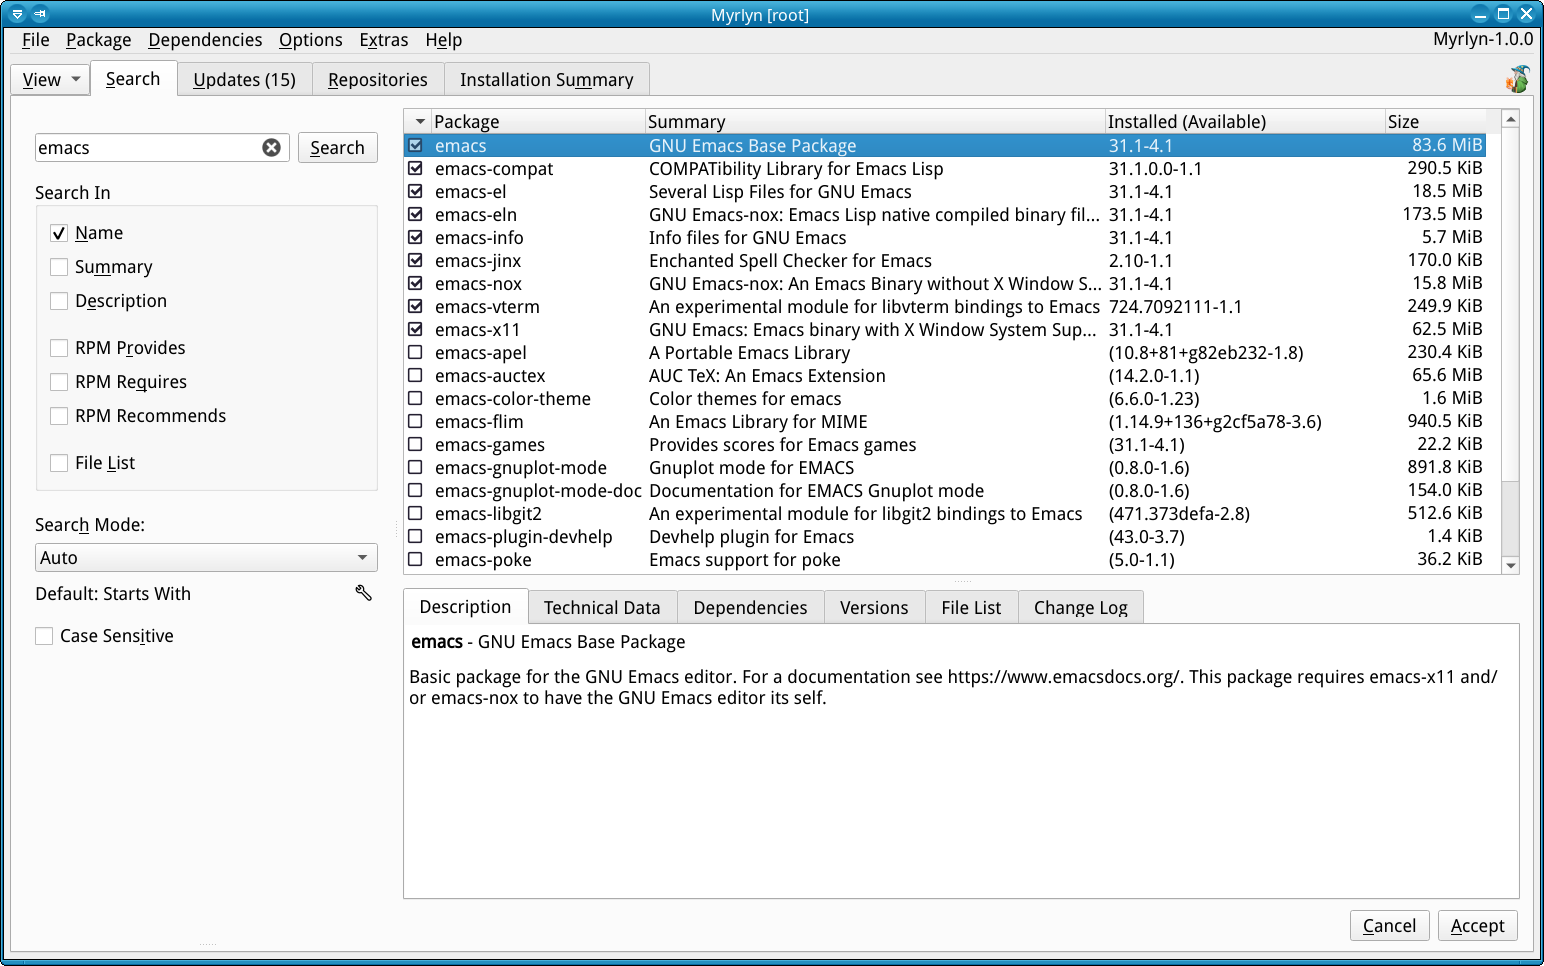
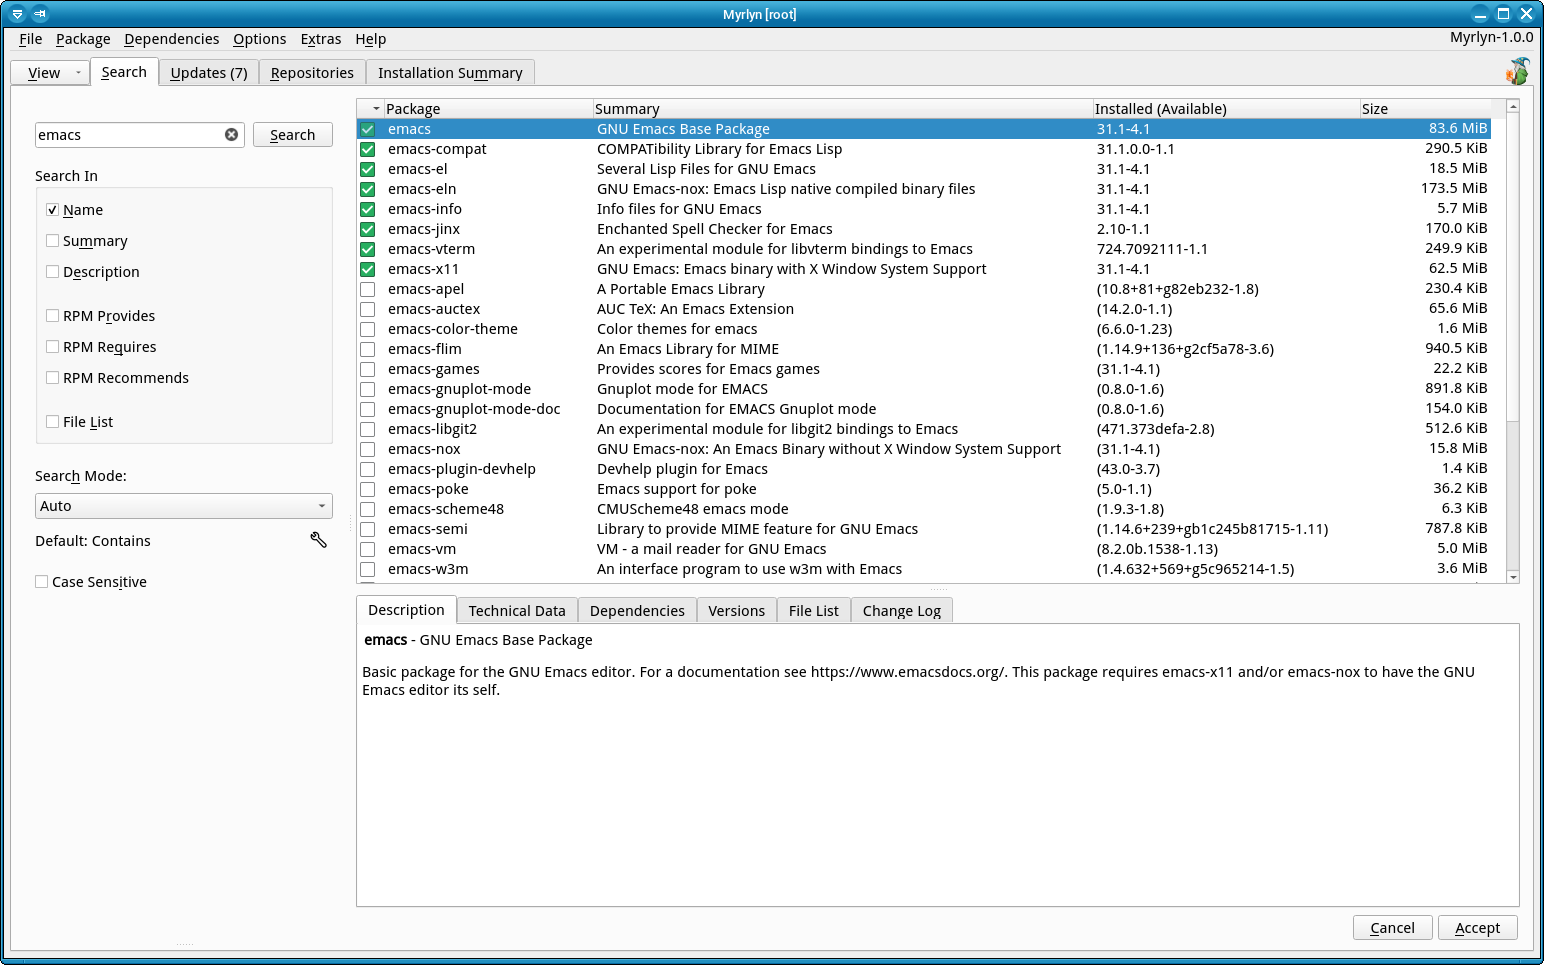
New screenshots

diff --git a/README.md b/README.md
@@ -28,15 +28,20 @@ Production ready. Suitable for everyday use.
 
 ## Screenshots
 
-[<img width="500" src="https://github.com/shundhammer/myrlyn/blob/master/screenshots/Myrlyn-10-search-view.png">](https://raw.githubusercontent.com/shundhammer/myrlyn/refs/heads/master/screenshots/Myrlyn-10-search-view.png)
-
 
 [<img width="250" src="https://github.com/shundhammer/myrlyn/blob/master/screenshots/Myrlyn-01-init-repos.png">](https://raw.githubusercontent.com/shundhammer/myrlyn/refs/heads/master/screenshots/Myrlyn-01-init-repos.png)
 [<img width="250" src="https://github.com/shundhammer/myrlyn/blob/master/screenshots/Myrlyn-11-updates-view.png">](https://raw.githubusercontent.com/shundhammer/myrlyn/refs/heads/master/screenshots/Myrlyn-11-updates-view.png)
+
+[<img width="250" src="https://github.com/shundhammer/myrlyn/blob/master/screenshots/Myrlyn-01-init-repos-dark.png">](https://raw.githubusercontent.com/shundhammer/myrlyn/refs/heads/master/screenshots/Myrlyn-01-init-repos-dark.png)
+[<img width="500" src="https://github.com/shundhammer/myrlyn/blob/master/screenshots/Myrlyn-10-search-view-dark.png">](https://raw.githubusercontent.com/shundhammer/myrlyn/refs/heads/master/screenshots/Myrlyn-10-search-view-dark.png)
+[<img width="250" src="https://github.com/shundhammer/myrlyn/blob/master/screenshots/Myrlyn-11-updates-view-dark.png">](https://raw.githubusercontent.com/shundhammer/myrlyn/refs/heads/master/screenshots/Myrlyn-11-updates-view-dark.png)
+
+
+
+
 [<img width="250" src="https://github.com/shundhammer/myrlyn/blob/master/screenshots/Myrlyn-20-pkg-commit-default.png">](https://raw.githubusercontent.com/shundhammer/myrlyn/refs/heads/master/screenshots/Myrlyn-20-pkg-commit-default.png)
 
-[<img width="250" src="https://github.com/shundhammer/myrlyn/blob/master/screenshots/Myrlyn-21-pkg-commit-details-1.png">](https://raw.githubusercontent.com/shundhammer/myrlyn/refs/heads/master/screenshots/Myrlyn-21-pkg-commit-details-1.png)
-[<img width="250" src="https://github.com/shundhammer/myrlyn/blob/master/screenshots/Myrlyn-22-pkg-commit-details-2.png">](https://raw.githubusercontent.com/shundhammer/myrlyn/refs/heads/master/screenshots/Myrlyn-22-pkg-commit-details-2.png)
+[<img width="250" src="https://github.com/shundhammer/myrlyn/blob/master/screenshots/Myrlyn-21-pkg-commit-details.png">](https://raw.githubusercontent.com/shundhammer/myrlyn/refs/heads/master/screenshots/Myrlyn-21-pkg-commit-details-1.png)
 [<img width="250" src="https://github.com/shundhammer/myrlyn/blob/master/screenshots/Myrlyn-30-summary.png">](https://raw.githubusercontent.com/shundhammer/myrlyn/refs/heads/master/screenshots/Myrlyn-30-summary.png)
 
 [<img width="250" src="https://github.com/shundhammer/myrlyn/blob/master/screenshots/Myrlyn-40-repo-config.png">](https://raw.githubusercontent.com/shundhammer/myrlyn/refs/heads/master/screenshots/Myrlyn-40-repo-config.png)
